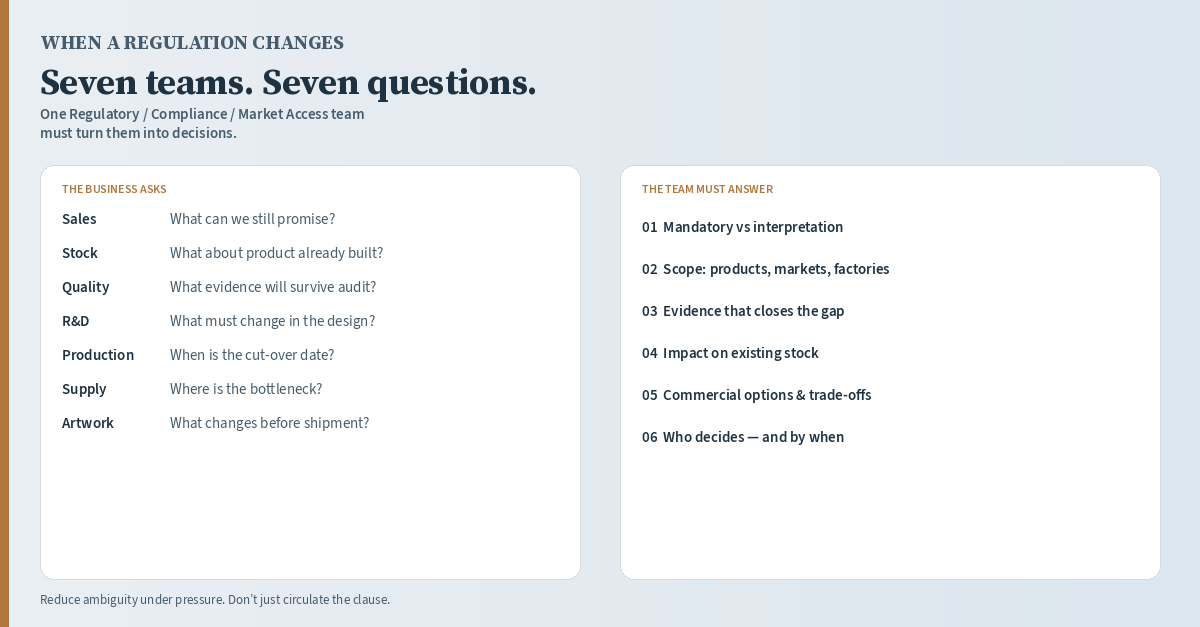
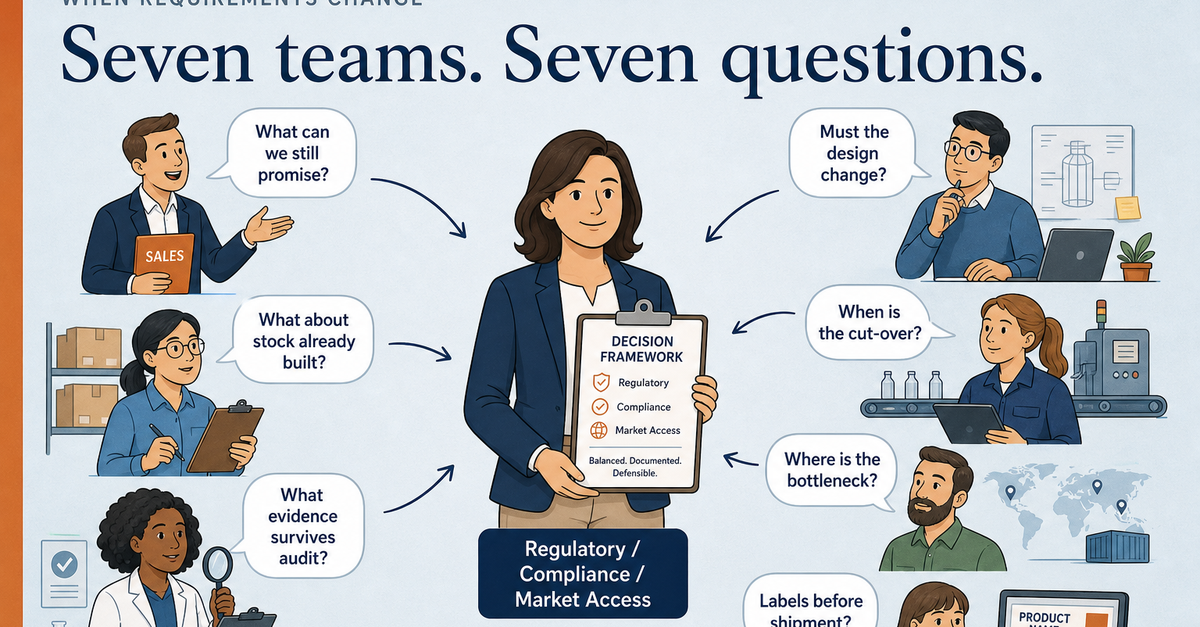
Add week-4 cartoon visual of teams asking questions
Replace list-style graphic with hub-and-spoke cartoon:
seven functions posing questions around Regulatory /
Compliance / Market Access. Include LinkedIn crops
and lock the approved post copy.

diff --git a/linkedin-content/hafta-04-translation-layer.md b/linkedin-content/hafta-04-translation-layer.md
@@ -1,46 +1,56 @@
-# Hafta 4 — FINAL (regülasyon + standart değişikliği)
+# Hafta 4 — FINAL (regülasyon + standart + sertifikasyon değişikliği)
 
 **Dil:** İngilizce  
-**Not:** Closing question kaldırıldı. Hem regulation hem standards change aynı koordinasyon problemini yaratır — metin buna göre zenginleştirildi.
+**Görsel:** `hafta-04-linkedin-1200x627.png` (ekiplerin soru sorduğu karikatür)
 
 ---
 
 ## Post (kopyala-yapıştır)
 
-The hardest part of a regulatory or standards change is rarely understanding the clause itself.
+The hardest part of a regulatory or standards change is rarely understanding the new requirement itself.
 
-It is aligning different functions — each with different questions, risks and priorities — around the same interpretation.
+It is aligning different functions — each with different questions, risks and priorities — around the same interpretation and a clear path forward.
 
-A new regulation lands. A standard is revised, replaced or withdrawn. Or an existing requirement is re-interpreted — by a market, an auditor, a notified body or the organisation itself.
+A regulation changes.
+A new edition of a standard is published.
+A certification requirement is updated.
+A national deviation appears.
+Or an existing requirement starts being interpreted differently in practice.
+
+The trigger may be different, but the organisational challenge is often the same.
+
 Very quickly, different parts of the business need different answers:
 
 • Sales wants to know what they can still promise the customer
 • Inventory and Logistics want to know what happens to products already produced or sitting in warehouses
 • Quality wants to know what evidence will stand up to an audit
-• R&D wants to know what must actually change in the design
+• R&D wants to know whether the product design, components or technical documentation must change
 • Production Planning wants a cut-over date they can schedule against
 • Supply Planning wants to know which part, supplier or certificate could become the bottleneck
-• Artwork wants to know what must change on the label before the next shipment leaves
+• Artwork wants to know whether markings, labels, manuals or packaging must change before the next shipment leaves
 
 And depending on the change, Legal, Procurement, Product Management, After Sales and other functions may have their own questions too.
 
-This is where Regulatory / Compliance / Market Access has to step in — not simply as the team that interprets the text, but as a coordinating decision-making function across the business.
+This is where Regulatory / Compliance / Market Access has to step in — not simply to interpret the requirement, but to translate that interpretation into a coordinated path forward across the business.
 
 If the answer is only “it depends,” the organisation freezes.
-If the answer comes too fast, without a shared framework, the organisation ships risk.
 
-The real job is not to quote the regulation or the standard.
-It is to translate it into decisions the business can act on:
+If the answer comes too fast, without a shared framework and sufficient evidence, the organisation takes unnecessary risk.
 
-1. What is mandatory — and what is interpretation?
-2. Which products, markets and factories are in scope?
-3. What evidence closes the gap?
-4. What happens to products and stock already produced?
-5. Which commercial options remain — sell-through, rework, redesign, an alternative route or a phased rollout?
-6. Who decides — and by when?
+The real job is not simply to quote a regulation or point to a clause in a standard.
 
-This is where Regulatory / Compliance / Market Access creates the most value: reducing ambiguity under pressure and turning both regulatory and standards requirements into clear business decisions.
+It is to turn the change into decisions the business can act on:
+
+1. What has actually changed — the requirement, the interpretation, or the way compliance must be demonstrated?
+2. What is mandatory — and what is interpretation or recommended practice?
+3. Which products, markets, factories and existing certificates are affected?
+4. What technical evidence, testing or documentation is needed to close the gap?
+5. What happens to products already manufactured, stock in warehouses and products already placed on the market?
+6. Which options remain — sell-through, rework, additional testing, redesign, an alternative certification route or a phased transition?
+7. What is the transition timeline — and who needs to decide what, by when?
+
+This is where Regulatory / Compliance / Market Access creates the most value: turning regulatory and technical change into clear, evidence-based business decisions.
 
 Not simply accumulating documents after the decision has already been made.
 
-#RegulatoryAffairs #ProductCompliance #MarketAccess #RegulatoryCompliance #ProductStandards #ChangeManagement #Leadership
+#RegulatoryAffairs #ProductCompliance #MarketAccess #ProductSafety #Standards #RegulatoryCompliance #ChangeManagement
